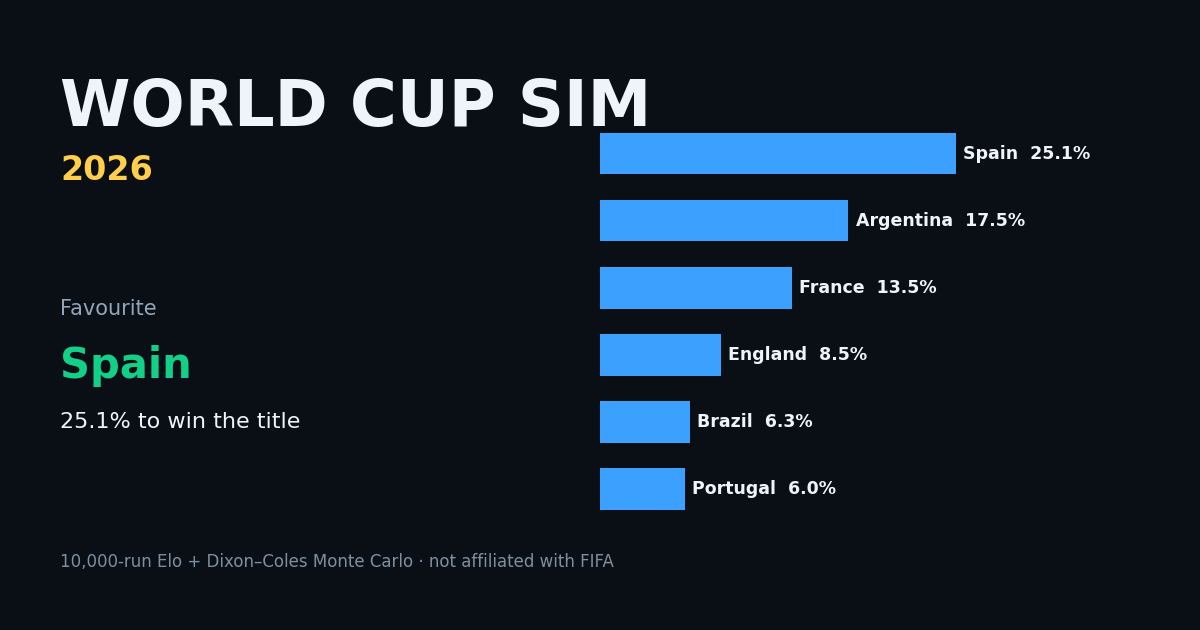
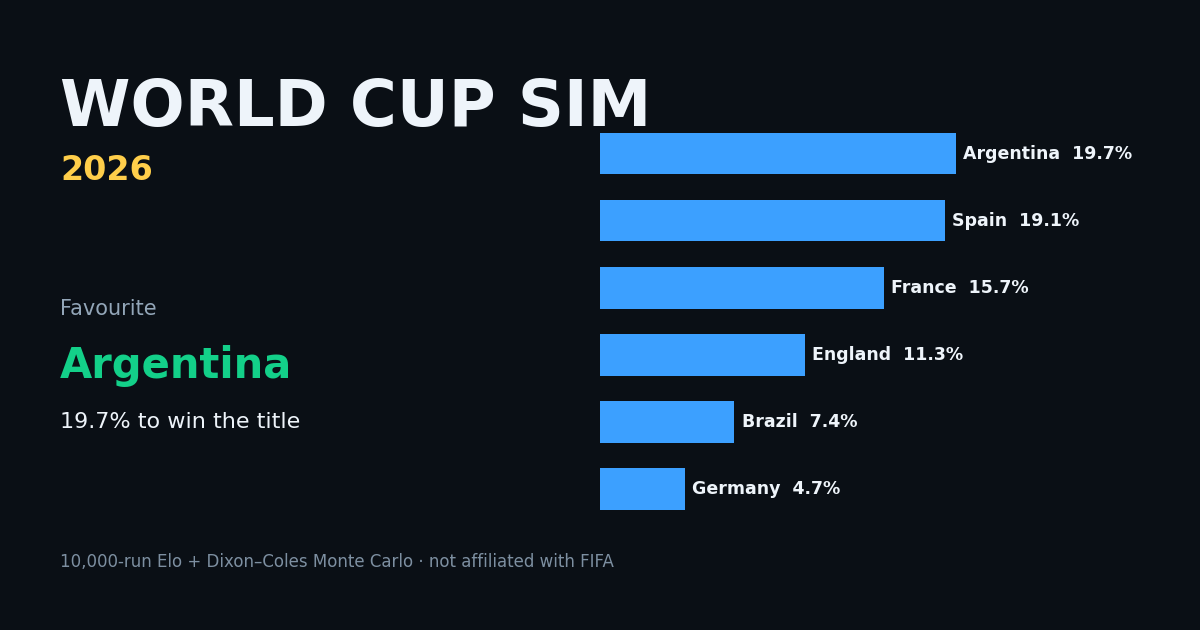
Deploy dashboard — 2026-06-21T03:32:08Z

diff --git a/app.js b/app.js
@@ -213,6 +213,24 @@
   // ---- TOURNAMENT ------------------------------------------------------------------------------
   function teamCell(t) { return '<a class="team-cell" href="#/team/' + encodeURIComponent(t) + '">' + flagImg(t, "sm") + esc(t) + "</a>"; }
 
+  // Qualification status (from groups_detail.table[].status): mathematically clinched / out / alive
+  // only via the best-third race. A team that can't finish top-2 but still has a best-third path is
+  // NOT eliminated — that's why its advance odds are small-but-nonzero, and the badge says so.
+  var STATUS_BY_TEAM = (function () {
+    var m = {}, gd = D.groups_detail || {};
+    Object.keys(gd).forEach(function (g) { (gd[g].table || []).forEach(function (r) { if (r.status) m[r.team] = r.status; }); });
+    return m;
+  })();
+  var STATUS_CFG = {
+    qualified: ["pos", "✓ Through", "Mathematically through to the knockouts (top-2 clinched)"],
+    eliminated: ["neg", "Eliminated", "No remaining path to advance — out of the tournament"],
+    third_hope: ["warn", "3rd-place hope", "Can no longer finish top-2; alive only via the best-third race (8 of 12 third-placed teams advance)"],
+  };
+  function statusBadge(team) {
+    var c = STATUS_CFG[STATUS_BY_TEAM[team]];
+    return c ? ' <span class="chip ' + c[0] + '" title="' + esc(c[2]) + '">' + c[1] + "</span>" : "";
+  }
+
   function titleTable(wrap) {
     var head = ce("div", "sec-head"); head.id = "title";
     head.innerHTML = '<h2>Title race</h2><span class="note">sortable · click a header</span><input class="search" placeholder="filter team…" aria-label="filter team">';
@@ -313,7 +331,7 @@
     Object.keys(groups).sort().forEach(function (gn) {
       var teams = groups[gn].slice().sort(function (a, b) { return (odds(b).advance || 0) - (odds(a).advance || 0); });
       var card = ce("div", "panel group"); var h = '<h4><a href="#/group/' + gn + '" class="grouplink">Group ' + gn + " →</a></h4>";
-      h += teams.map(function (t, i) { var a = odds(t).advance || 0; return '<div class="grow ' + (i < 2 ? "q" : "") + '">' + flagImg(t, "sm") + '<span class="nm">' + esc(t) + '</span><span class="qbar"><i style="width:' + (a * 100) + '%"></i></span><span class="av">' + (a * 100).toFixed(0) + "%</span></div>"; }).join("");
+      h += teams.map(function (t, i) { var a = odds(t).advance || 0; return '<div class="grow ' + (i < 2 ? "q" : "") + '">' + flagImg(t, "sm") + '<span class="nm">' + esc(t) + statusBadge(t) + '</span><span class="qbar"><i style="width:' + (a * 100) + '%"></i></span><span class="av">' + (a * 100).toFixed(0) + "%</span></div>"; }).join("");
       card.innerHTML = h; g.appendChild(card);
     });
     wrap.appendChild(g);
@@ -1480,7 +1498,7 @@
         '<div class="standings"><div class="st-h">#</div><div class="st-h st-team">Team</div><div class="st-h">P</div><div class="st-h">W</div><div class="st-h">D</div><div class="st-h">L</div><div class="st-h">GF</div><div class="st-h">GA</div><div class="st-h">GD</div><div class="st-h">Pts</div>' +
         st.map(function (r, i) {
           return '<div class="st-r' + (i < 2 ? " q" : "") + '">' + (i + 1) + "</div>" +
-            '<div class="st-team">' + flagImg(r.team, "sm") + " " + esc(r.team) + "</div>" +
+            '<div class="st-team">' + flagImg(r.team, "sm") + " " + esc(r.team) + statusBadge(r.team) + "</div>" +
             "<div>" + r.played + "</div><div>" + r.w + "</div><div>" + r.d + "</div><div>" + r.l + "</div>" +
             "<div>" + r.gf + "</div><div>" + r.ga + "</div><div>" + (r.gd > 0 ? "+" : "") + r.gd + '</div><div class="st-pts">' + r.pts + "</div>";
         }).join("") + "</div>";

diff --git a/styles.css b/styles.css
@@ -192,6 +192,7 @@ table.tbl tbody tr:hover { background: var(--panel-2); }
 .chip { display: inline-block; padding: 2px 8px; border-radius: 999px; font-size: 12px; font-weight: 700; }
 .chip.pos { background: color-mix(in srgb, var(--good) 22%, transparent); color: var(--good); }
 .chip.neg { background: color-mix(in srgb, var(--bad) 22%, transparent); color: var(--bad); }
+.chip.warn { background: color-mix(in srgb, var(--warn, #d98a00) 24%, transparent); color: var(--warn, #d98a00); }
 .search { background: var(--panel-2); border: 1px solid var(--line); color: var(--text); border-radius: 9px; padding: 8px 11px; font-size: 14px; min-width: 180px; }
 
 /* ---- charts ---- */